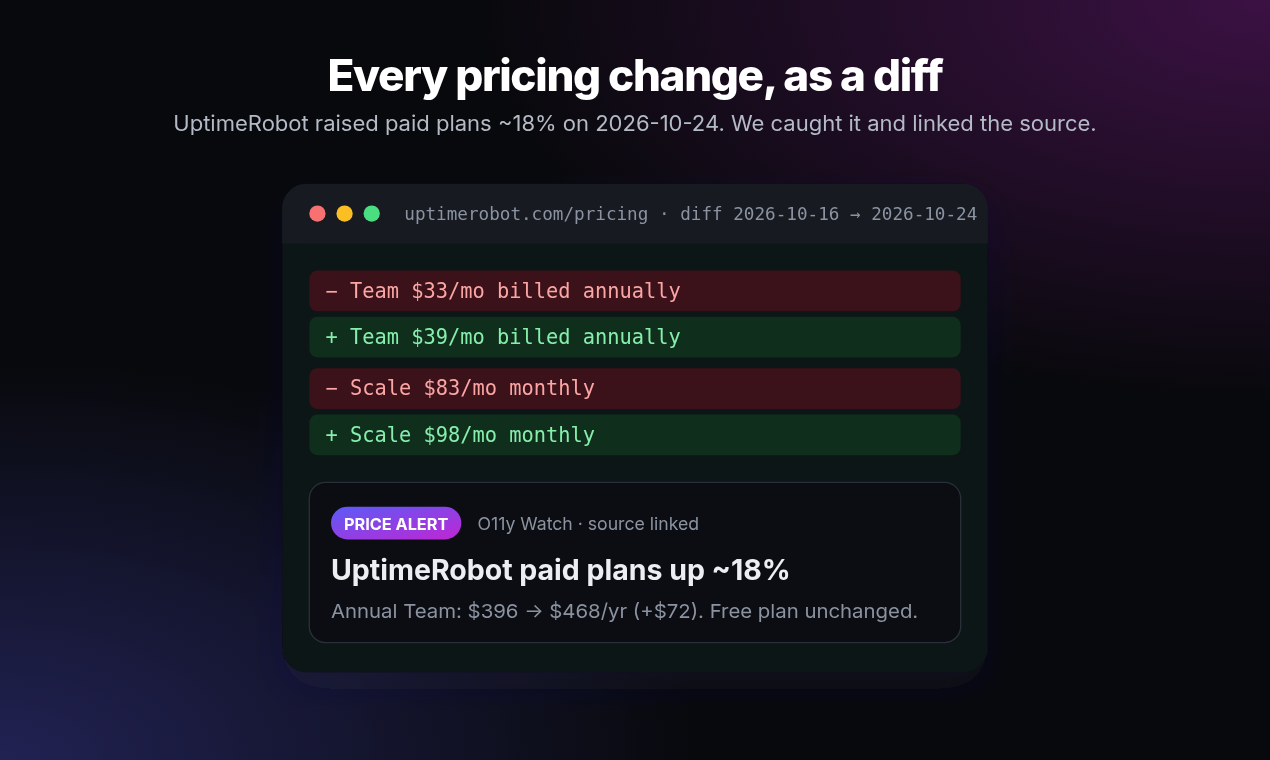
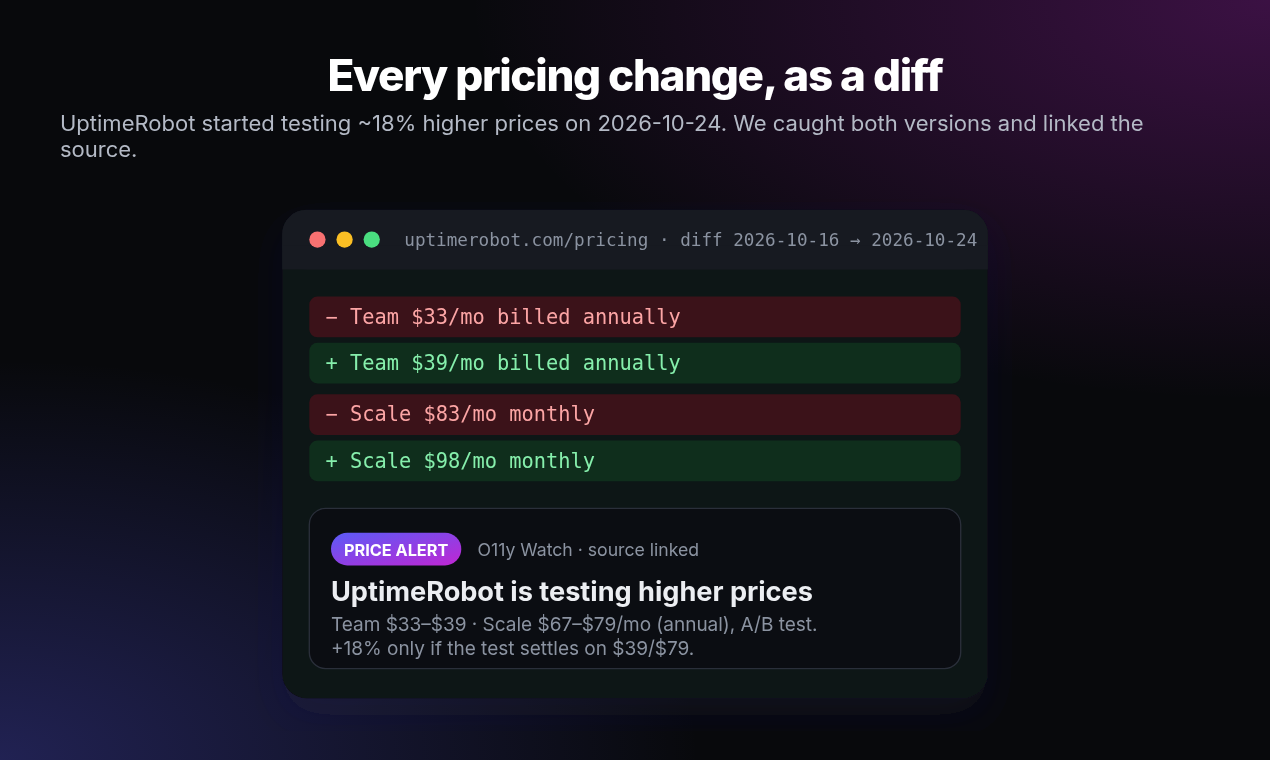
Trust: requalify UptimeRobot +18% as a live price test (RT-20261030-91)
UptimeRobot is cookie-testing Team $33/$39 and Scale $67/$79 (annual). Hero card, alt/caption, proof card, sample issue, change log, RSS/JSON/llms now say 'testing' and that +18% applies only if the test settles on the higher prices.

Changed region(s): [[0.2457, 0.2724, 0.7677, 0.6355], [0.215, 0.6658, 0.737, 0.9382], [0.0307, 0.1513, 0.8906, 0.2118]]

diff --git a/docs/newsletter-issue-002.md b/docs/newsletter-issue-002.md
@@ -1,11 +1,11 @@
-# O11y Watch #002 — UptimeRobot +18%, Lunary ends free signups
+# O11y Watch #002 — UptimeRobot tests higher prices, Lunary ends free signups
 
 *Week of 2026-10-24. We re-checked all 73 tracked pricing pages. Every claim links to the vendor's own page.*
 
 ---
 
 ## TL;DR
-- **UptimeRobot raised paid prices by about 18%.** Team is now $46/mo on monthly billing (was $39). The free plan is unchanged.
+- **UptimeRobot is testing ~18% higher paid prices.** Default visitors see Team at $46/mo on monthly billing (was $39); a test group still sees the old prices. The free plan is unchanged. *(Requalified 2026-10-30: this is a cookie-based price test, so the +18% applies only if it settles on the higher prices.)*
 - **Lunary ended free signups.** New cloud workspaces require payment and start at $20/user/mo. Existing Free workspaces are grandfathered.
 - **The directory is now fully reviewed:** 70 of 73 vendors verified, plus entry prices, billing model, card and self-host fields.
 
@@ -13,7 +13,7 @@
 
 | Vendor | Change | Source |
 |---|---|---|
-| UptimeRobot | Team $39→$46/mo monthly, $33→$39/mo annual ($396→$468/yr). Scale $83→$98/mo monthly, $67→$79/mo annual. | [uptimerobot.com/pricing](https://uptimerobot.com/pricing/) |
+| UptimeRobot | Price test: Team $39 or $46/mo monthly, $33 or $39/mo annual ($396 or $468/yr). Scale $83 or $98/mo monthly, $67 or $79/mo annual. Higher prices are the default group. | [uptimerobot.com/pricing](https://uptimerobot.com/pricing/) |
 | Lunary | "Payment is required to activate your workspace." Cloud from $20/user/mo; existing Free workspaces stay the same. | [lunary.ai/pricing](https://lunary.ai/pricing) |
 | Bugsnag | Free plan listed as 1 user, 7.5K events + 1M spans/mo. (We can't confirm whether this is new or just a fuller reading.) | [bugsnag.com/pricing](https://www.bugsnag.com/pricing/) |
 | Uptrace | Cloud free tier stated as 50 GB + 5,000 timeseries/mo; self-hosted Community Edition free with no limits. | [uptrace.dev/pricing](https://uptrace.dev/pricing) |
